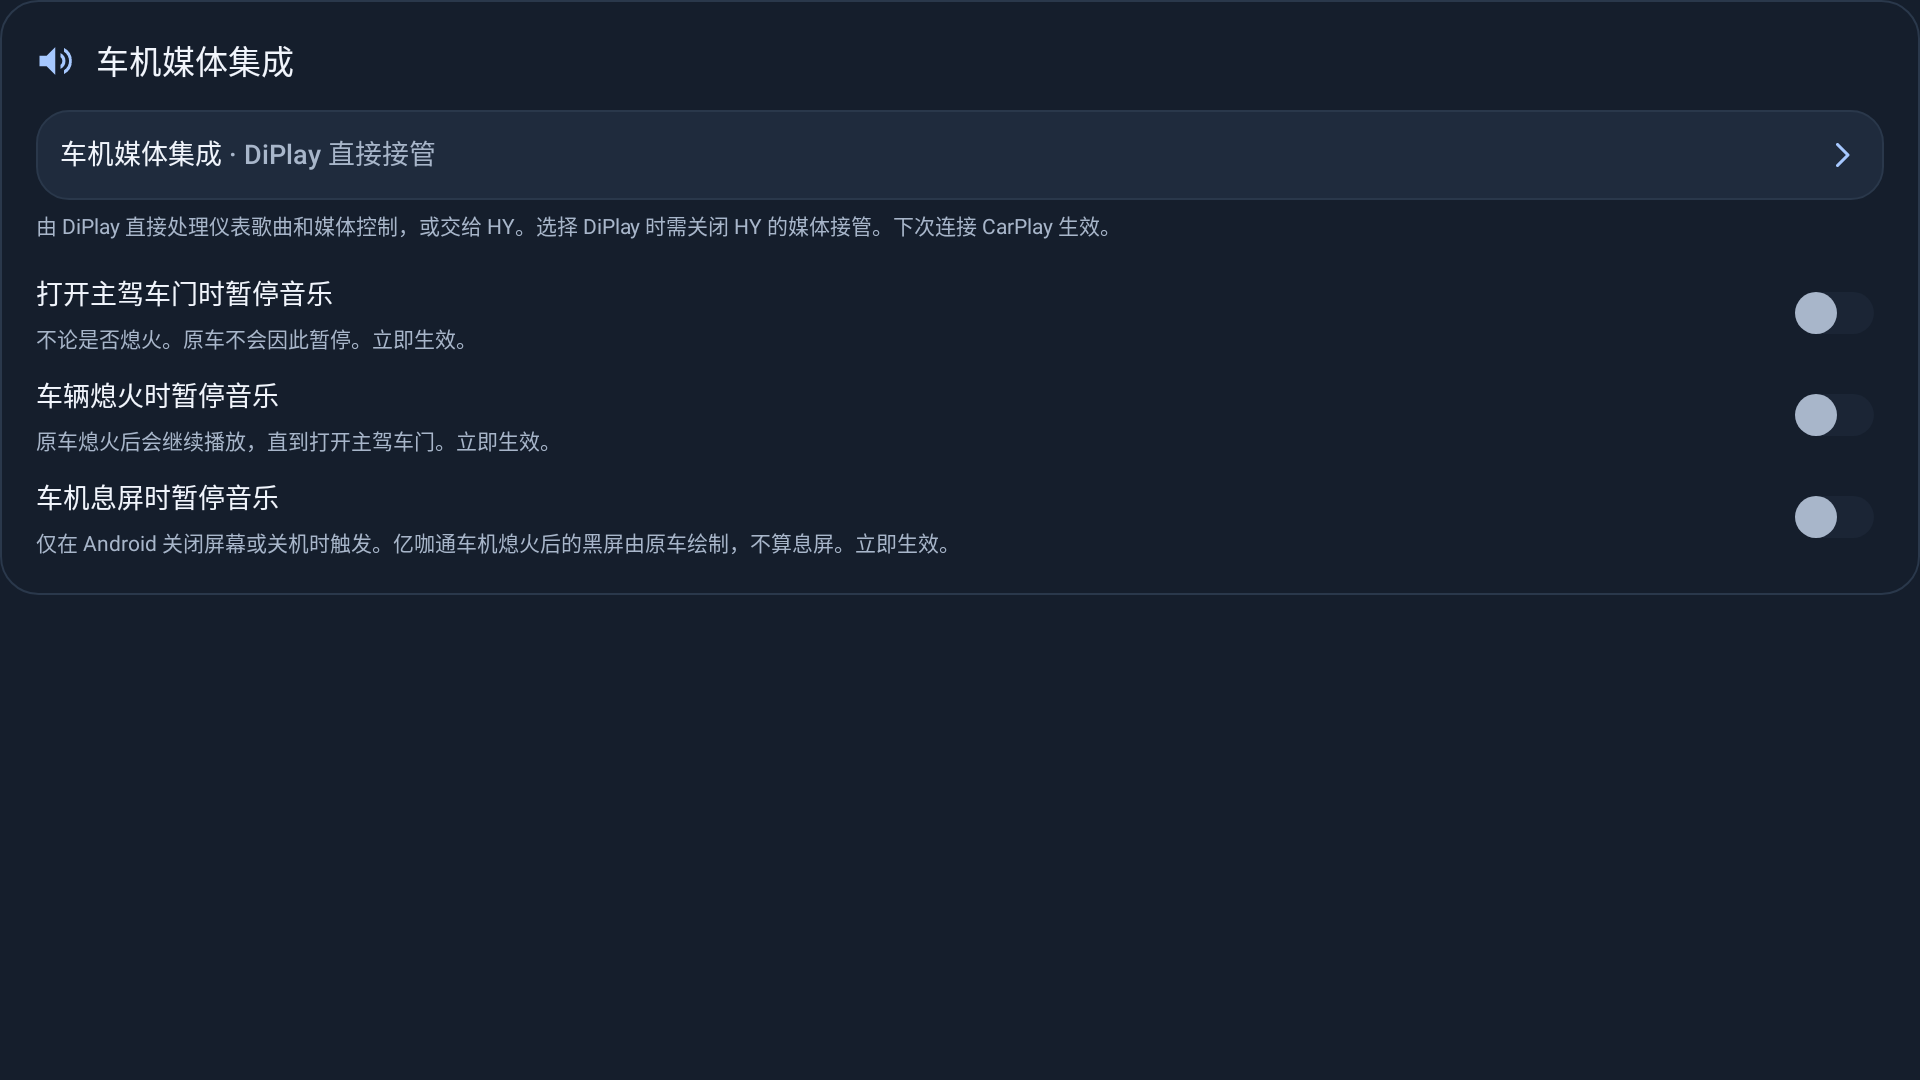
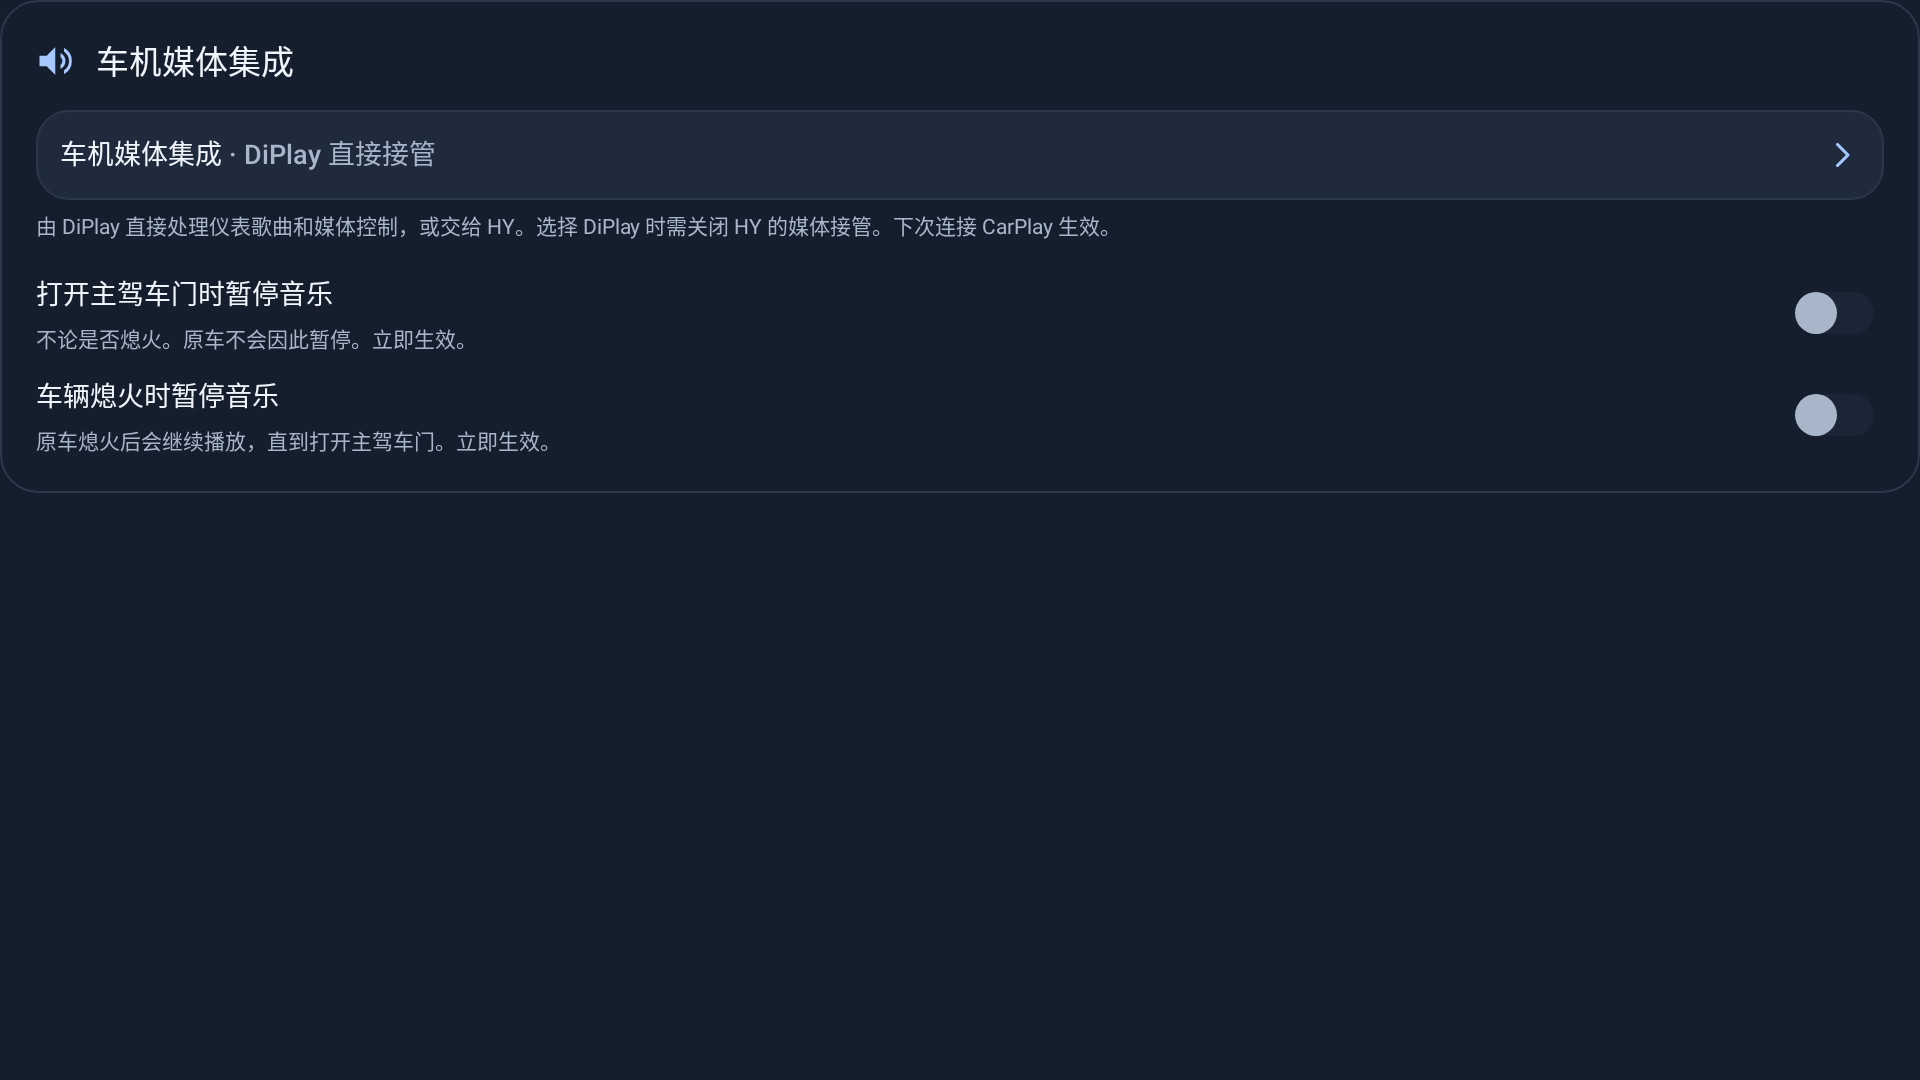
feat(media): drop the screen-off pause switch
This car never turns the Android screen off: its dark screen after the
engine stops is drawn by the car while Android stays awake and holds the
display wake lock, and no report or v141 car log has a screen-off
broadcast. Keep the door and engine switches, both ECARX only and off by
default. Both were seen firing on the car with v141.

Changed region(s): [[0.0, 0.4278, 0.5, 0.5194], [0.9375, 0.4583, 0.9688, 0.5194]]

diff --git a/common/src/main/java/com/shilapi/xcertplay/MediaPowerDiagnostics.kt b/common/src/main/java/com/shilapi/xcertplay/MediaPowerDiagnostics.kt
@@ -24,8 +24,7 @@ import java.util.Locale
  *
  * Kept in memory for the whole process, because the host activity is destroyed and recreated each
  * time the screen goes dark, and also written to the host's session log while one is attached.
- * Diagnostic only, except that the screen broadcasts and the door and usage-mode readings also
- * feed [MusicPause].
+ * Diagnostic only, except that the door and usage-mode readings also feed [MusicPause].
  */
 internal object MediaPowerDiagnostics {
     private const val TAG = "DiPlayMediaPower"
@@ -35,14 +34,12 @@ internal object MediaPowerDiagnostics {
     private var sink: ((String) -> Unit)? = null
     private var appContext: Context? = null
     private var probe: EcarxVehicleSignalProbe? = null
-    private var musicPause: MusicPause? = null
     private var lastDisplayState: Int? = null
     private val main = Handler(Looper.getMainLooper())
 
     private val screenReceiver = object : BroadcastReceiver() {
         override fun onReceive(context: Context, intent: Intent) {
             note("Screen broadcast ${intent.action?.substringAfterLast('.')} ${screenState(context)}")
-            if (intent.action == Intent.ACTION_SCREEN_OFF || intent.action == Intent.ACTION_SHUTDOWN) musicPause?.onScreenOff()
         }
     }
 
@@ -71,7 +68,6 @@ internal object MediaPowerDiagnostics {
                 addAction(Intent.ACTION_SCREEN_OFF)
                 addAction(Intent.ACTION_SCREEN_ON)
                 addAction(Intent.ACTION_USER_PRESENT)
-                addAction(Intent.ACTION_SHUTDOWN)
             }, ContextCompat.RECEIVER_EXPORTED)
         }.onFailure { note("Screen broadcast register failed: ${it.javaClass.simpleName}") }
         runCatching {
@@ -79,8 +75,8 @@ internal object MediaPowerDiagnostics {
             app.getSystemService(DisplayManager::class.java)?.registerDisplayListener(displayListener, main)
         }.onFailure { note("Screen display listener failed: ${it.javaClass.simpleName}") }
         note("Media power diagnostics started ${screenState(app)}")
-        val pause = MusicPauseSettings.policy(app, ::note).also { musicPause = it }
         if (EcarxVehicleSignalProbe.supported(app)) {
+            val pause = MusicPauseSettings.policy(app, ::note)
             probe = EcarxVehicleSignalProbe(app, ::note) { id, value ->
                 when (id) {
                     EcarxVehicleSignalProbe.USAGE_MODE -> (value as? Int)?.let(pause::onUsageMode)
@@ -142,7 +138,6 @@ internal object MediaPowerDiagnostics {
         sink = null
         probe?.stop()
         probe = null
-        musicPause = null
         appContext?.let { app ->
             runCatching { app.unregisterReceiver(screenReceiver) }
             runCatching { app.getSystemService(DisplayManager::class.java)?.unregisterDisplayListener(displayListener) }

diff --git a/common/src/main/java/com/shilapi/xcertplay/MusicPause.kt b/common/src/main/java/com/shilapi/xcertplay/MusicPause.kt
@@ -9,20 +9,18 @@ internal enum class MusicPauseTrigger(val key: String) {
     DOOR("music_pause_door"),
     /** The engine stops: the car leaves active or driving. */
     ENGINE_OFF("music_pause_engine_off"),
-    /** Android turns the screen off or shuts down. */
-    SCREEN_OFF("music_pause_screen_off"),
 }
 
 /**
- * Pauses the iPhone on the triggers HY's head-unit app offers, which the car's own media apps do
- * not: they keep playing through ignition off and only remember whether music was playing before
- * the power went, to resume it on the next drive (`BTMusicManager`, `OpenApiCarHelper`). So all
- * three stay off unless the driver turns them on, and nothing is resumed here.
+ * Pauses the iPhone on the door and engine triggers HY's head-unit app offers, which the car's own
+ * media apps do not: they keep playing through ignition off and only remember whether music was
+ * playing before the power went, to resume it on the next drive (`BTMusicManager`,
+ * `OpenApiCarHelper`). So both stay off unless the driver turns them on, and nothing is resumed here.
  *
  * On this car the first door opening after the engine stops turns the hotspot and Bluetooth off
  * about 20 ms later (v139 report), so the door trigger also stops the music before CarPlay drops.
- * Its dark screen is drawn by the car while Android stays on, so the screen trigger only fires on
- * a real Android screen off.
+ * HY's third trigger, Android screen off, is left out: this car's dark screen is drawn by the car
+ * while Android stays awake, and no report has a screen-off broadcast.
  */
 internal class MusicPause(
     private val enabled: (MusicPauseTrigger) -> Boolean,
@@ -46,8 +44,6 @@ internal class MusicPause(
         // The first reading of a start is a state, not an opening.
         if (open && wasOpen == false) fire(MusicPauseTrigger.DOOR)
     }
-
-    fun onScreenOff() = fire(MusicPauseTrigger.SCREEN_OFF)
 
     private fun fire(trigger: MusicPauseTrigger) {
         val name = trigger.name.lowercase()
@@ -78,7 +74,7 @@ internal object MusicPauseSettings {
         AirPlayPersistence.preferences(context).edit().putBoolean(trigger.key, value).apply()
     }
 
-    /** The process-wide policy fed by the screen broadcasts and the car's usage mode and driver door. */
+    /** The process-wide policy fed by the car's usage mode and driver door. */
     fun policy(context: Context, log: (String) -> Unit): MusicPause {
         val app = context.applicationContext
         return MusicPause(

diff --git a/common/src/main/java/com/shilapi/xcertplay/DiPlayActivity.kt b/common/src/main/java/com/shilapi/xcertplay/DiPlayActivity.kt
@@ -2147,16 +2147,14 @@ class DiPlayActivity : ComponentActivity(), AppAppearanceOwner {
             }
             card.addView(label(getString(R.string.settings_media_output_description), 14, MUTED))
             // The door and engine triggers need the car's signals, so only ECARX head units offer them.
-            val pauses = buildList {
-                if (com.shilapi.xcertplay.hud.EcarxVehicleSignalProbe.supported(this@DiPlayActivity)) {
-                    add(Triple(MusicPauseTrigger.DOOR, R.string.settings_music_pause_door, R.string.settings_music_pause_door_description))
-                    add(Triple(MusicPauseTrigger.ENGINE_OFF, R.string.settings_music_pause_engine_off, R.string.settings_music_pause_engine_off_description))
-                }
-                add(Triple(MusicPauseTrigger.SCREEN_OFF, R.string.settings_music_pause_screen_off, R.string.settings_music_pause_screen_off_description))
-            }
-            for ((trigger, title, description) in pauses) {
-                toggle(card, getString(title), getString(description), MusicPauseSettings.enabled(this, trigger)) {
-                    MusicPauseSettings.setEnabled(this, trigger, it)
+            if (com.shilapi.xcertplay.hud.EcarxVehicleSignalProbe.supported(this)) {
+                for ((trigger, title, description) in listOf(
+                    Triple(MusicPauseTrigger.DOOR, R.string.settings_music_pause_door, R.string.settings_music_pause_door_description),
+                    Triple(MusicPauseTrigger.ENGINE_OFF, R.string.settings_music_pause_engine_off, R.string.settings_music_pause_engine_off_description),
+                )) {
+                    toggle(card, getString(title), getString(description), MusicPauseSettings.enabled(this, trigger)) {
+                        MusicPauseSettings.setEnabled(this, trigger, it)
+                    }
                 }
             }
         }

diff --git a/common/src/test/java/com/shilapi/xcertplay/MusicPauseSettingsScreenshotTest.kt b/common/src/test/java/com/shilapi/xcertplay/MusicPauseSettingsScreenshotTest.kt
@@ -23,7 +23,7 @@ import org.robolectric.annotation.Config
 import org.robolectric.annotation.GraphicsMode
 import org.robolectric.util.ReflectionHelpers
 
-/** The three music pause switches in Audio on the current 1920×1080 ECARX head unit. */
+/** The two music pause switches in Audio on the current 1920×1080 ECARX head unit. */
 @RunWith(RobolectricTestRunner::class)
 // SDK 33 ships the platform car service, like the head unit.
 @Config(sdk = [33])
@@ -75,13 +75,13 @@ class MusicPauseSettingsScreenshotTest {
         }
     }
 
-    @Test fun otherHeadUnitsOnlyOfferTheScreenSwitch() {
+    @Test fun otherHeadUnitsDoNotOfferThem() {
         val activity = Robolectric.buildActivity(DiPlayActivity::class.java).get()
         activity.setTheme(android.R.style.Theme_Material_NoActionBar)
         try {
             val page = render(activity)
             val shown = TITLES.filter { (_, name) -> views(page).any { it is TextView && it.text == activity.getString(name) } }
-            assertEquals(listOf(MusicPauseTrigger.SCREEN_OFF), shown.map { it.first })
+            assertEquals(emptyList<MusicPauseTrigger>(), shown.map { it.first })
         } finally {
             activity.finish()
         }
@@ -91,7 +91,6 @@ class MusicPauseSettingsScreenshotTest {
         val TITLES = listOf(
             MusicPauseTrigger.DOOR to R.string.settings_music_pause_door,
             MusicPauseTrigger.ENGINE_OFF to R.string.settings_music_pause_engine_off,
-            MusicPauseTrigger.SCREEN_OFF to R.string.settings_music_pause_screen_off,
         )
     }
 

diff --git a/common/src/test/java/com/shilapi/xcertplay/MusicPauseTest.kt b/common/src/test/java/com/shilapi/xcertplay/MusicPauseTest.kt
@@ -45,25 +45,23 @@ class MusicPauseTest {
         assertEquals(1, pauses)
     }
 
-    @Test fun pausesWhenTheScreenTurnsOff() {
-        policy.onScreenOff()
-        assertEquals(listOf("Music pause trigger=screen_off sent=true"), logs)
-    }
-
     @Test fun leavesMusicThatIsNotPlayingAndHonoursEachSetting() {
+        policy.onDriverDoor(false)
         playing = false
-        policy.onScreenOff()
+        policy.onDriverDoor(true)
+        policy.onDriverDoor(false)
         playing = null
-        policy.onScreenOff()
+        policy.onDriverDoor(true)
+        policy.onDriverDoor(false)
         playing = true
         enabled -= MusicPauseTrigger.DOOR
-        policy.onDriverDoor(false)
         policy.onDriverDoor(true)
-        policy.onScreenOff()
+        policy.onUsageMode(13)
+        policy.onUsageMode(1)
         assertEquals(1, pauses)
-        assertEquals(listOf("Music pause trigger=screen_off skipped iphonePlaying=false",
-            "Music pause trigger=screen_off skipped iphonePlaying=null", "Music pause trigger=door off",
-            "Music pause trigger=screen_off sent=true"), logs)
+        assertEquals(listOf("Music pause trigger=door skipped iphonePlaying=false",
+            "Music pause trigger=door skipped iphonePlaying=null", "Music pause trigger=door off",
+            "Music pause trigger=engine_off sent=true"), logs)
     }
 
     @Test fun readsTheDriverDoorBytesTheCarReports() {

diff --git a/common/src/test/java/com/shilapi/xcertplay/MediaPowerDiagnosticsTest.kt b/common/src/test/java/com/shilapi/xcertplay/MediaPowerDiagnosticsTest.kt
@@ -49,17 +49,12 @@ class MediaPowerDiagnosticsTest {
     }
 
     @Test fun recordsScreenBroadcastsAfterStart() {
-        MusicPauseSettings.setEnabled(context, MusicPauseTrigger.SCREEN_OFF, true)
         MediaPowerDiagnostics.start(context)
         context.sendBroadcast(Intent(Intent.ACTION_SCREEN_OFF))
-        context.sendBroadcast(Intent(Intent.ACTION_SHUTDOWN))
-        context.sendBroadcast(Intent(Intent.ACTION_SCREEN_ON))
         shadowOf(Looper.getMainLooper()).idle()
         val events = MediaPowerDiagnostics.report()
         assertTrue(events.toString(), events.any { it.contains("Media power diagnostics started display=") })
         assertTrue(events.toString(), events.any { it.contains("Screen broadcast SCREEN_OFF display=") })
-        // Screen off and shutdown reach the pause setting; without a session nothing is sent.
-        assertEquals(events.toString(), 2, events.count { it.endsWith("Music pause trigger=screen_off skipped iphonePlaying=null") })
         // Robolectric is not an ECARX car service.
         assertTrue(events.toString(), events.any { it.contains("Vehicle signal probe not started") })
     }

diff --git a/docs/FEATURES.zh-CN.md b/docs/FEATURES.zh-CN.md
@@ -317,29 +317,28 @@ v106 曾通过 MQTT 距离主题纠偏，一轮实车压力 Mock 仅确认当时
 
 **边界**：这一项影响仪表媒体卡片、系统媒体控件、方向盘媒体键和 Siri 按键的归属，切换后建议重启一次 CarPlay 会话再判断。
 
-### 4.1.1 暂停音乐的三个开关（默认全部关闭，待实车验证）
+### 4.1.1 暂停音乐的两个开关（默认全部关闭）
 
-**在哪开**：**设置 → 音频 → 车机媒体集成** 卡片里的三个开关，改动立即生效。「打开主驾车门」和「车辆熄火」需要车身信号，只在亿咖通车机上显示；「车机息屏」所有车机都有。
+**在哪开**：**设置 → 音频 → 车机媒体集成** 卡片里的两个开关，改动立即生效。两项都需要车身信号，只在亿咖通车机上显示。
 
-![暂停音乐的三个开关](screenshots/22-audio-music-pause-v141.png)
+![暂停音乐的两个开关](screenshots/22-audio-music-pause-v141.png)
 
 | 开关 | 何时发暂停 |
 |---|---|
 | 打开主驾车门时暂停音乐 | 主驾门由关到开（`PA_CP_DoorDrvrSts` 末字节 4 → 2），不论是否熄火 |
 | 车辆熄火时暂停音乐 | 整车使用模式 `usageMode` 从运行（11/13）变为未运行（如 1） |
-| 车机息屏时暂停音乐 | Android 广播 `SCREEN_OFF` 或 `ACTION_SHUTDOWN` |
 
-三项都只在 iPhone 正在播放时发一次暂停，之后由你手动恢复；DiPlay 不自动恢复播放。三项与 HY 车机应用的同名开关触发条件一致。
+两项都只在 iPhone 正在播放时发一次暂停，之后由你手动恢复；DiPlay 不自动恢复播放。两项与 HY 车机应用的同名开关触发条件一致。HY 的第三项「车机息屏时暂停」没有做：这台车熄火后的黑屏由原车绘制，Android 一直亮屏（`dumpsys power` 为 `mWakefulness=Awake`，且持有屏幕唤醒锁），所有报告里都没有息屏广播。
 
-**为什么默认关闭**：原车不做这三件事。原车蓝牙音乐（`BTMusicManager` 的 820A 分支）只记住断电前是否在播放，断电期间不改写；USB 音乐（`OpenApiCarHelper`）点火 OFF 时不暂停，点火 ON 时若上次在播就接着放。所以原车熄火后会一直播放到开门，下次上车接着放。
+**为什么默认关闭**：原车不做这两件事。原车蓝牙音乐（`BTMusicManager` 的 820A 分支）只记住断电前是否在播放，断电期间不改写；USB 音乐（`OpenApiCarHelper`）点火 OFF 时不暂停，点火 ON 时若上次在播就接着放。所以原车熄火后会一直播放到开门，下次上车接着放。
 
 **这台车上的情况**：
-- 熄火后第一次开主驾门，约 20 ms 内车机关闭热点和蓝牙，CarPlay 断开。打开「打开主驾车门」后，暂停会抢在断开前送到 iPhone（v140 报告：77 ms 内写完按键，重连时 iPhone 仍为暂停）。
+- 熄火后第一次开主驾门，约 20 ms 内车机关闭热点和蓝牙，CarPlay 断开。打开「打开主驾车门」后，暂停会抢在断开前送到 iPhone（v140 报告：77 ms 内写完按键，重连时 iPhone 仍为暂停）。v141 实车：不熄火开门 1–2 ms 内发出暂停，iPhone 约 0.7 秒后停止；熄火时 1 ms 内发出暂停。
+- CarPlay 页面回到前台约 1 秒后，原车媒体中心会发「播放」（v141 实车 20:26:36、20:27:36），会撤销之前的暂停，这是原车行为。
 - 点亮屏幕后重连，原车媒体中心会按断电前记住的状态发「播放」（v140 报告 18:32:57），这是原车的「上车接着放」，DiPlay 不拦截。
 - 便利状态（点亮未启动）开门下车，原车媒体中心会在关门后约 1–4 秒自己暂停。
-- 熄火后的黑屏由原车绘制，Android 始终为 `display=ON interactive=true`，所以「车机息屏」在这台车上不会因此触发。
 
-**怎么核对**：诊断报告「Screen, car power and media commands」一节里会出现 `Music pause trigger=door|engine_off|screen_off sent=true`；开关关闭时为 `… off`，iPhone 未在播放时为 `… skipped iphonePlaying=…`。
+**怎么核对**：诊断报告「Screen, car power and media commands」一节里会出现 `Music pause trigger=door|engine_off sent=true`；开关关闭时为 `… off`，iPhone 未在播放时为 `… skipped iphonePlaying=…`。
 
 ### 4.2 蓝牙媒体让位（默认开启）
 

diff --git a/CHANGELOG.md b/CHANGELOG.md
@@ -8,9 +8,9 @@
 - 设置修改立即生效，CarPlay 在后台时也立即发给 iPhone；「App 外观：自动」在 CarPlay 打开前也使用上述推测，不再跟随系统夜间。
 - 诊断报告新增各来源相对启动的耗时（`+Nms`）、首个有效值来源、推测依据（`Night guess … basis=`）与切换原因（`CarPlay switched … reason=`），导出报告即可核对。
 
-## 暂停音乐三个开关；熄火下车后点亮屏幕自动重连；黑屏与车身信号诊断（待实车验证）
+## 暂停音乐两个开关；熄火下车后点亮屏幕自动重连；黑屏与车身信号诊断
 
-- 取消 v140 的「熄火开门时暂停音乐」，改为与 HY 一致的三个开关（设置 → 音频 → 车机媒体集成，默认全部关闭，与原车一致）：打开主驾车门时暂停（不论是否熄火，仅亿咖通）、车辆熄火时暂停（`usageMode` 离开 11/13，仅亿咖通）、车机息屏时暂停（Android `SCREEN_OFF`/`ACTION_SHUTDOWN`）。只在 iPhone 正在播放时发暂停，不自动恢复。原车媒体应用熄火时不暂停，只在下次上电时按断电前状态接着放。
+- 取消 v140 的「熄火开门时暂停音乐」，改为与 HY 一致的两个开关（设置 → 音频 → 车机媒体集成，仅亿咖通，默认全部关闭，与原车一致）：打开主驾车门时暂停（不论是否熄火）、车辆熄火时暂停（`usageMode` 离开 11/13）。只在 iPhone 正在播放时发暂停，不自动恢复。原车媒体应用熄火时不暂停，只在下次上电时按断电前状态接着放。v141 实车已验证两项都能触发。HY 的「车机息屏时暂停」不做：这台车 Android 从不息屏，黑屏由原车绘制。
 - 熄火后开门，车机关闭热点和蓝牙，CarPlay 断开；之后点亮屏幕，CarPlay 一直停在连接中，需要手动断开再连（v140 报告 18:32:30–18:32:45）。原因：断开后的重启发现蓝牙关闭立即放弃，且这个失败被当成旧会话的交接日志吞掉，不再重试。现在这次重启会等待车机自己重新打开蓝牙（最长 30 分钟，断开即取消，不主动开蓝牙），蓝牙恢复后继续连接；RFCOMM 开始前的失败不再被吞掉，会正常显示失败，不再停在连接中。
 - 诊断报告新增「Screen, car power and media commands」：屏幕广播与主屏电源状态、CarPlay 页面前后台、整车使用模式（`usageMode`）与五个车门（只读）、音频焦点、iPhone 播放状态、每条媒体命令的来源、原车媒体中心未处理的调用，以及 CarPlay 断开时是否仍在播放。v139 报告显示黑屏期间 Android 始终为 `display=ON interactive=true`，黑屏不是系统灭屏。
 
